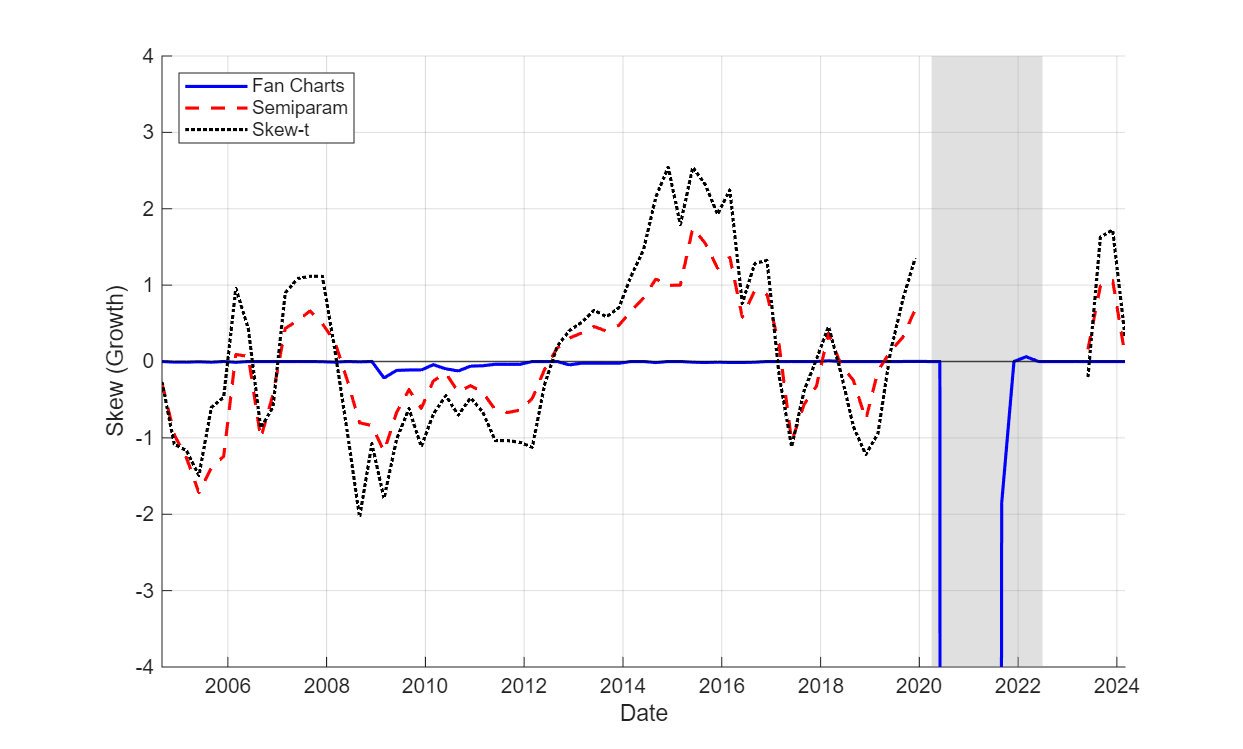
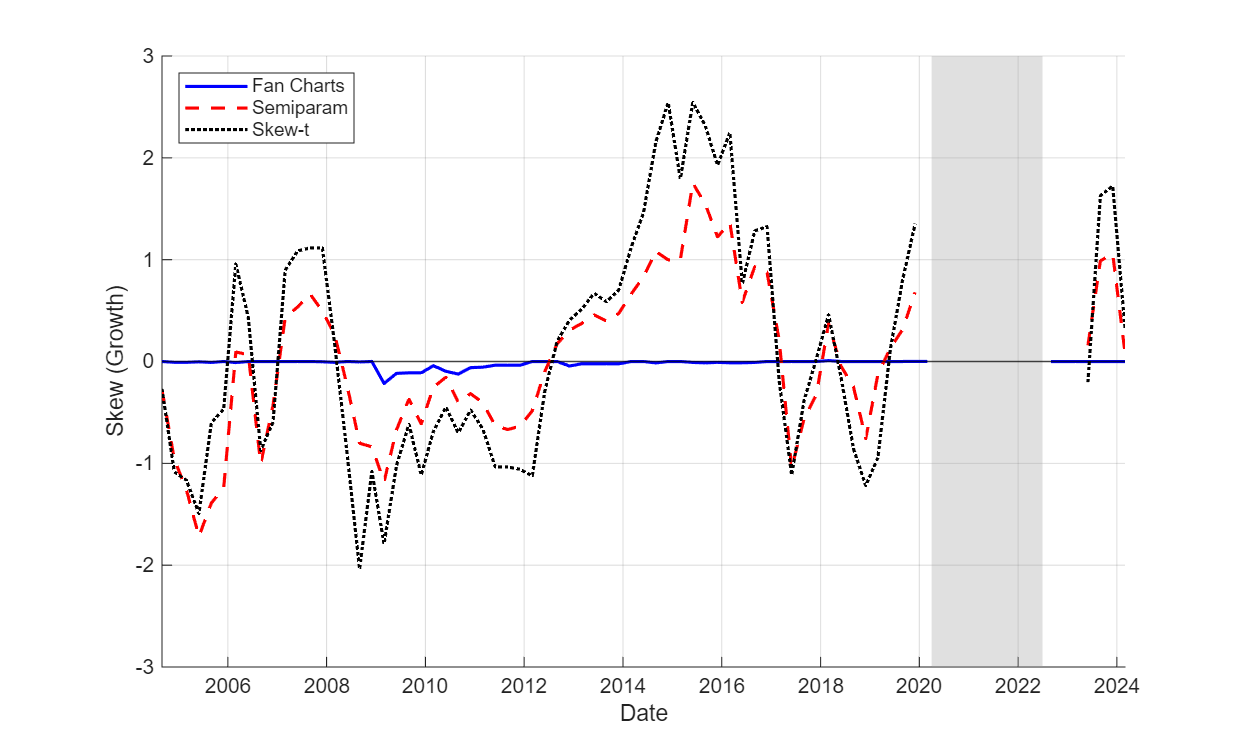
Added updated moment charts and associated code. I have added the boe_inflation_moments and boe_growth_moments to make the chart-making easier.Change

diff --git a/IaR_GaR_April_2026/moment_charts.m b/IaR_GaR_April_2026/moment_charts.m
@@ -18,6 +18,15 @@
 % Series across the three models are aligned by their forecast-origin
 % date (inner join), since the BoE, skew-t and semi-param files no longer
 % necessarily share the same date range or number of observations.
+%
+% Covid treatment: the x-axis here is the forecast-ORIGIN date (unlike
+% the rolling fan charts, which plot against the target date), so the
+% exclusion window does not need to be shifted per horizon. Any series
+% observation whose origin falls inside [shadeStart, shadeEnd] is set to
+% NaN before plotting, so the model lines show a genuine gap over the
+% Covid period (and its base-effect/lag buffer) instead of interpolating
+% straight through it. The grey patch is retained purely as a visual
+% marker of that same window.
 
 close all; clear; clc;
 
@@ -33,6 +42,10 @@ end
 models      = {'Fan Charts', 'Semiparam', 'Skew-t'};
 colors      = {'b', 'r', 'k'};              % blue, red, black
 linestyles  = {'-', '--', ':'};
+
+% Covid exclusion window (origin-date basis). shadeEnd already runs well
+% past the acute 2020 shock to absorb the lagged/base-effect distortion
+% in the data, mirroring covidEnd + covidLagBuffer in the fan chart script.
 shadeStart  = datetime(2020,4,1);
 shadeEnd    = datetime(2022,6,30);
 
@@ -40,9 +53,9 @@ metricSheets = {'fcstmean', 'fcststdev', 'fcstskew'};
 metricLabels = {'Mean', 'Std. Dev.', 'Skew'};
 metricTags   = {'mean', 'std', 'skew'};
 
-targetMonths  = [3, 12, 24];                              % 1Q, 1Y, 2Y ahead
-horizonTags   = {'1q', '1y', '2y'};
-horizonTitles = {'One Quarter Ahead', 'One Year Ahead', 'Two Years Ahead'};
+targetMonths  = [3, 12, 24, 36];                          % 1Q, 1Y, 2Y, 3Y ahead
+horizonTags   = {'1q', '1y', '2y', '3y'};
+horizonTitles = {'One Quarter Ahead', 'One Year Ahead', 'Two Years Ahead', 'Three Years Ahead'};
 
 %% ---- Variable configuration ---------------------------------------
 cfg = struct([]);
@@ -108,6 +121,10 @@ for v = 1:numel(cfg)
         [~, smpRows] = ismember(commonDates, smpKey);
         [~, sktRows] = ismember(commonDates, sktKey);
 
+        % Covid mask on the (shared) origin-date axis. Computed once per
+        % variable/metric since it does not depend on horizon here.
+        covidMask = commonDates >= shadeStart & commonDates <= shadeEnd;
+
         for h = 1:numel(targetMonths)
 
             tMonths = targetMonths(h);
@@ -119,6 +136,14 @@ for v = 1:numel(cfg)
             boeSeries = boeTbl{boeRows, boeCol};
             smpSeries = smpTbl{smpRows, smpCol};
             sktSeries = sktTbl{sktRows, sktCol};
+
+            % Blank out the Covid period: NaNs naturally break each line
+            % over the excluded window instead of interpolating through
+            % it, so the chart doesn't imply a stable forecast density
+            % existed during that stretch.
+            boeSeries(covidMask) = NaN;
+            smpSeries(covidMask) = NaN;
+            sktSeries(covidMask) = NaN;
 
             figure('Visible', 'off');
             hold on;
